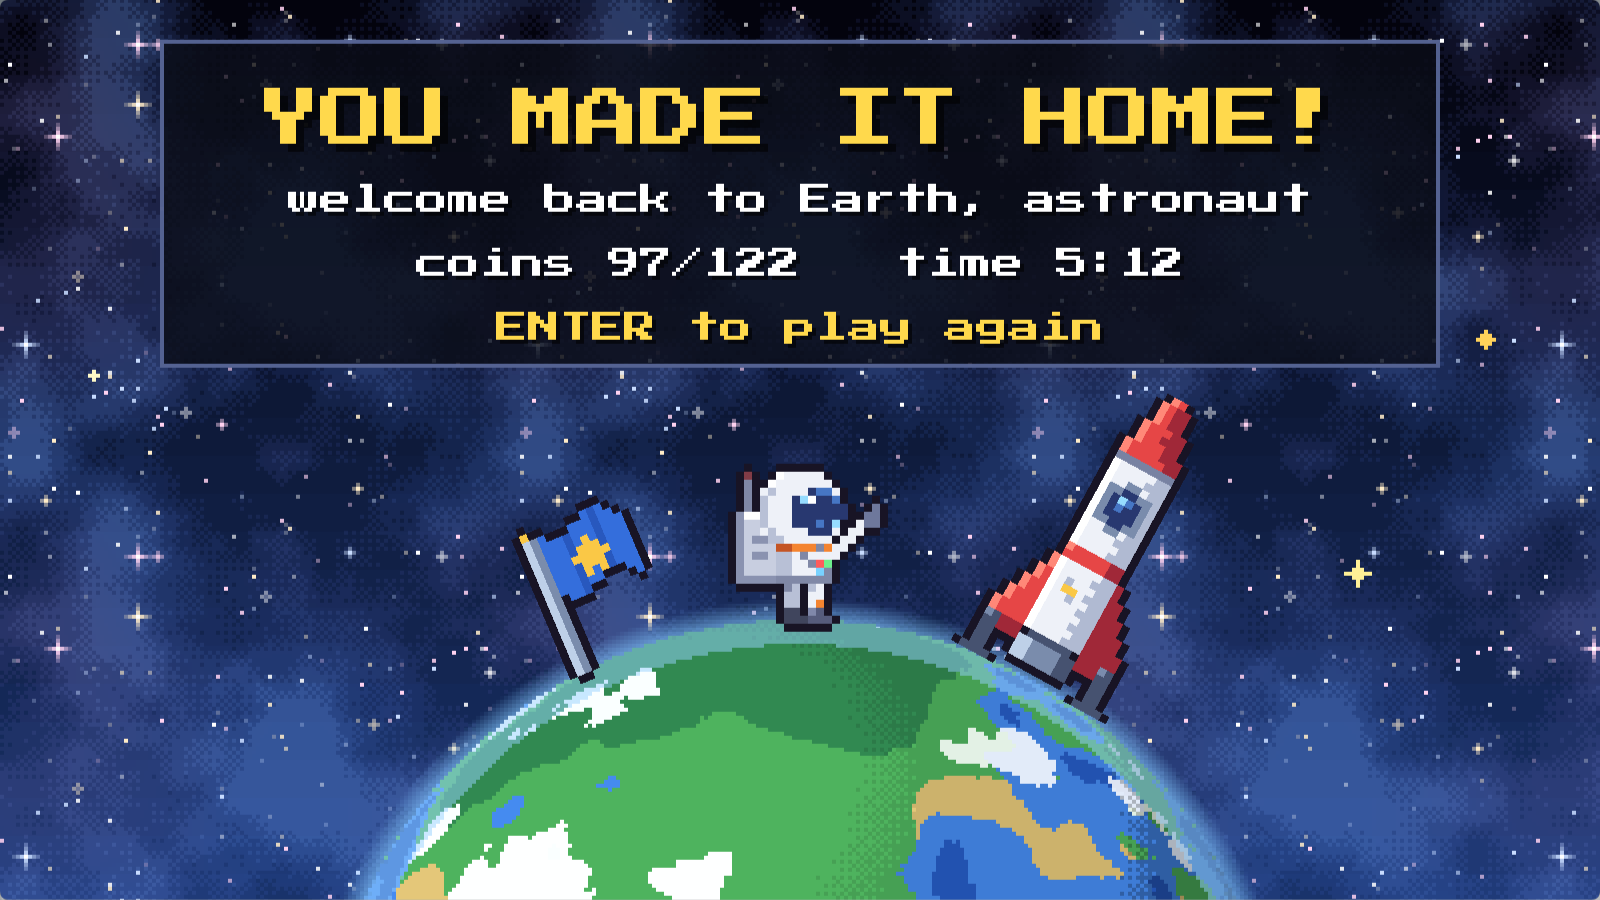
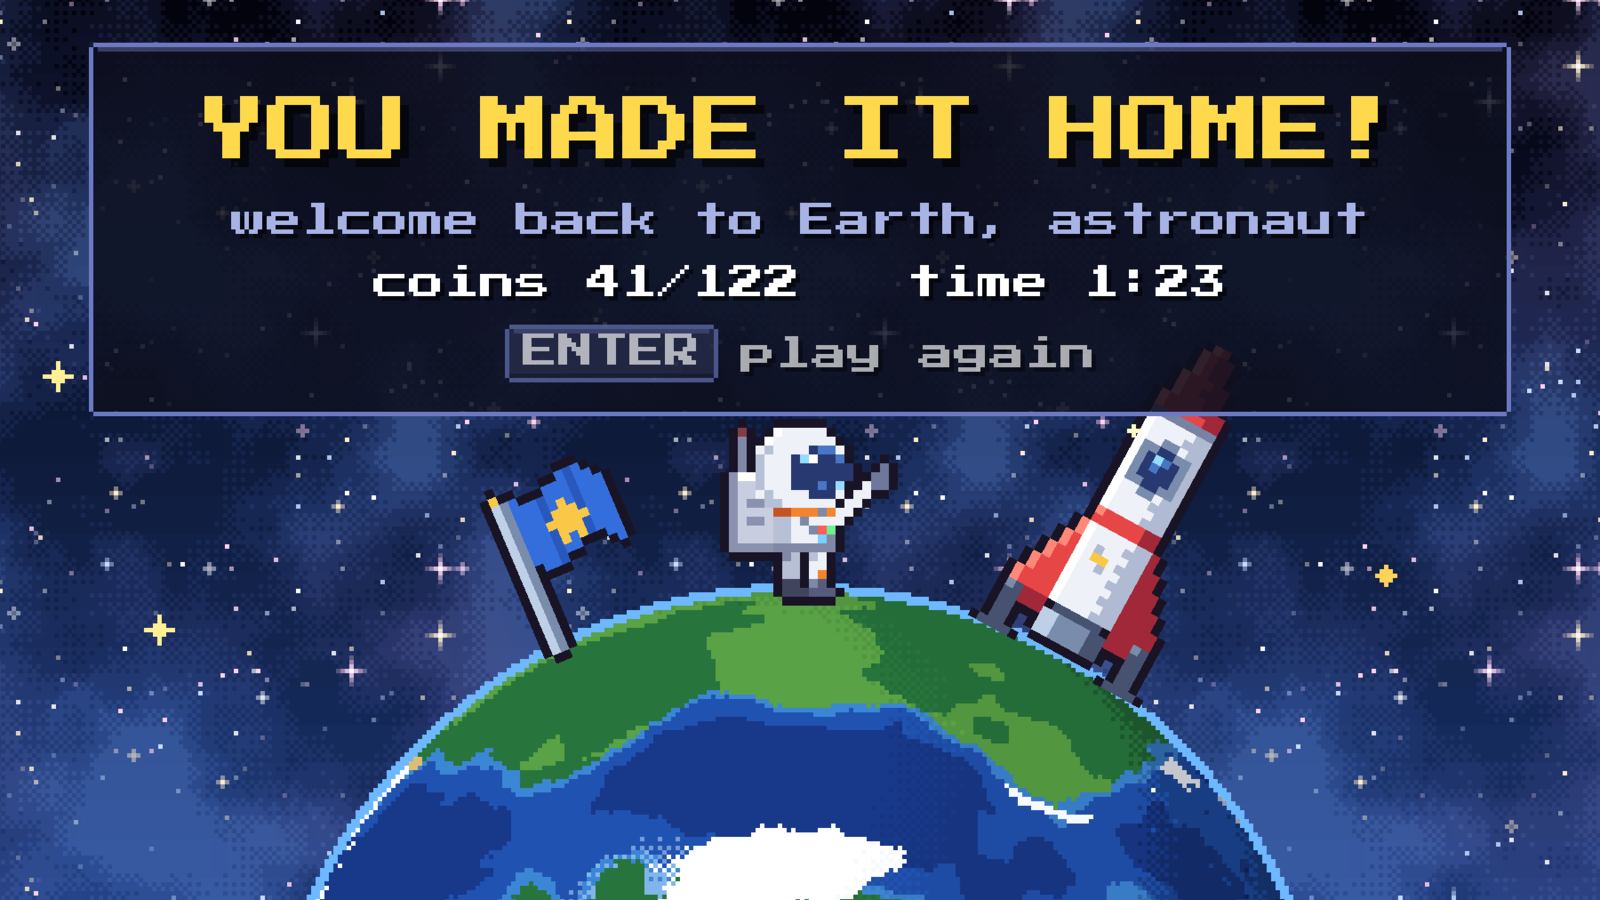
Fix ending screen

diff --git a/examples/platformer/game.cpp b/examples/platformer/game.cpp
@@ -431,7 +431,7 @@ private:
         ASTRA_PROFILE_SCOPE("draw ending");
         drawSky(kEndingLook);
         const glm::vec2 screen(framebufferSize());
-        const float s = hudScale(screen);
+        const float s = endingScale(screen);
         const astra2d::Texture2D& earth = m_assets.texture("textures/earth.png");
         const float radius = 120.0F * s; // of the planet in earth.png
         const glm::vec2 center{std::round(screen.x * 0.5F), (70.0F * s) - radius};
@@ -465,6 +465,14 @@ private:
             }
         }
         m_renderer.end();
+    }
+
+    // The ending's pixel scale: the HUD's, but small enough that the screen is at least 230 HUD
+    // pixels high, so the panel (94 from the top) stays clear of the rocket (134 from the bottom)
+    // in a wide, short window.
+    [[nodiscard]] float endingScale(glm::vec2 screen) const
+    {
+        return std::max(1.0F, std::min(hudScale(screen), std::floor(screen.y / 230.0F)));
     }
 
     // The HUD's pixel scale: the world's, but small enough that the HUD fits a narrow window.
@@ -1489,15 +1497,16 @@ private:
             for (const Level& level : m_levels) {
                 allCoins += level.count(ThingKind::Coin);
             }
+            const float e = endingScale(screen); // as the planet and rocket below the panel
             const float top = screen.y;
-            panel(screen, 160.0F * s, top - (94.0F * s), top - (10.0F * s), s);
-            drawCentered("YOU MADE IT HOME!", top - (22.0F * s), 16.0F * s, kGold);
-            drawCentered("welcome back to Earth, astronaut", top - (46.0F * s), text, kMuted);
+            panel(screen, 160.0F * e, top - (94.0F * e), top - (10.0F * e), e);
+            drawCentered("YOU MADE IT HOME!", top - (22.0F * e), 16.0F * e, kGold);
+            drawCentered("welcome back to Earth, astronaut", top - (46.0F * e), 8.0F * e, kMuted);
             drawCentered(std::format("coins {}/{}   time {}:{:02}", m_totalCoins, allCoins,
                                      static_cast<int>(m_totalTime) / 60,
                                      static_cast<int>(m_totalTime) % 60),
-                         top - (60.0F * s), text, kWhite);
-            drawKeyRow(kAgainRow, top - (80.0F * s), s, faded(kWhite, pulse));
+                         top - (60.0F * e), 8.0F * e, kWhite);
+            drawKeyRow(kAgainRow, top - (80.0F * e), e, faded(kWhite, pulse));
             break;
         }
         }
